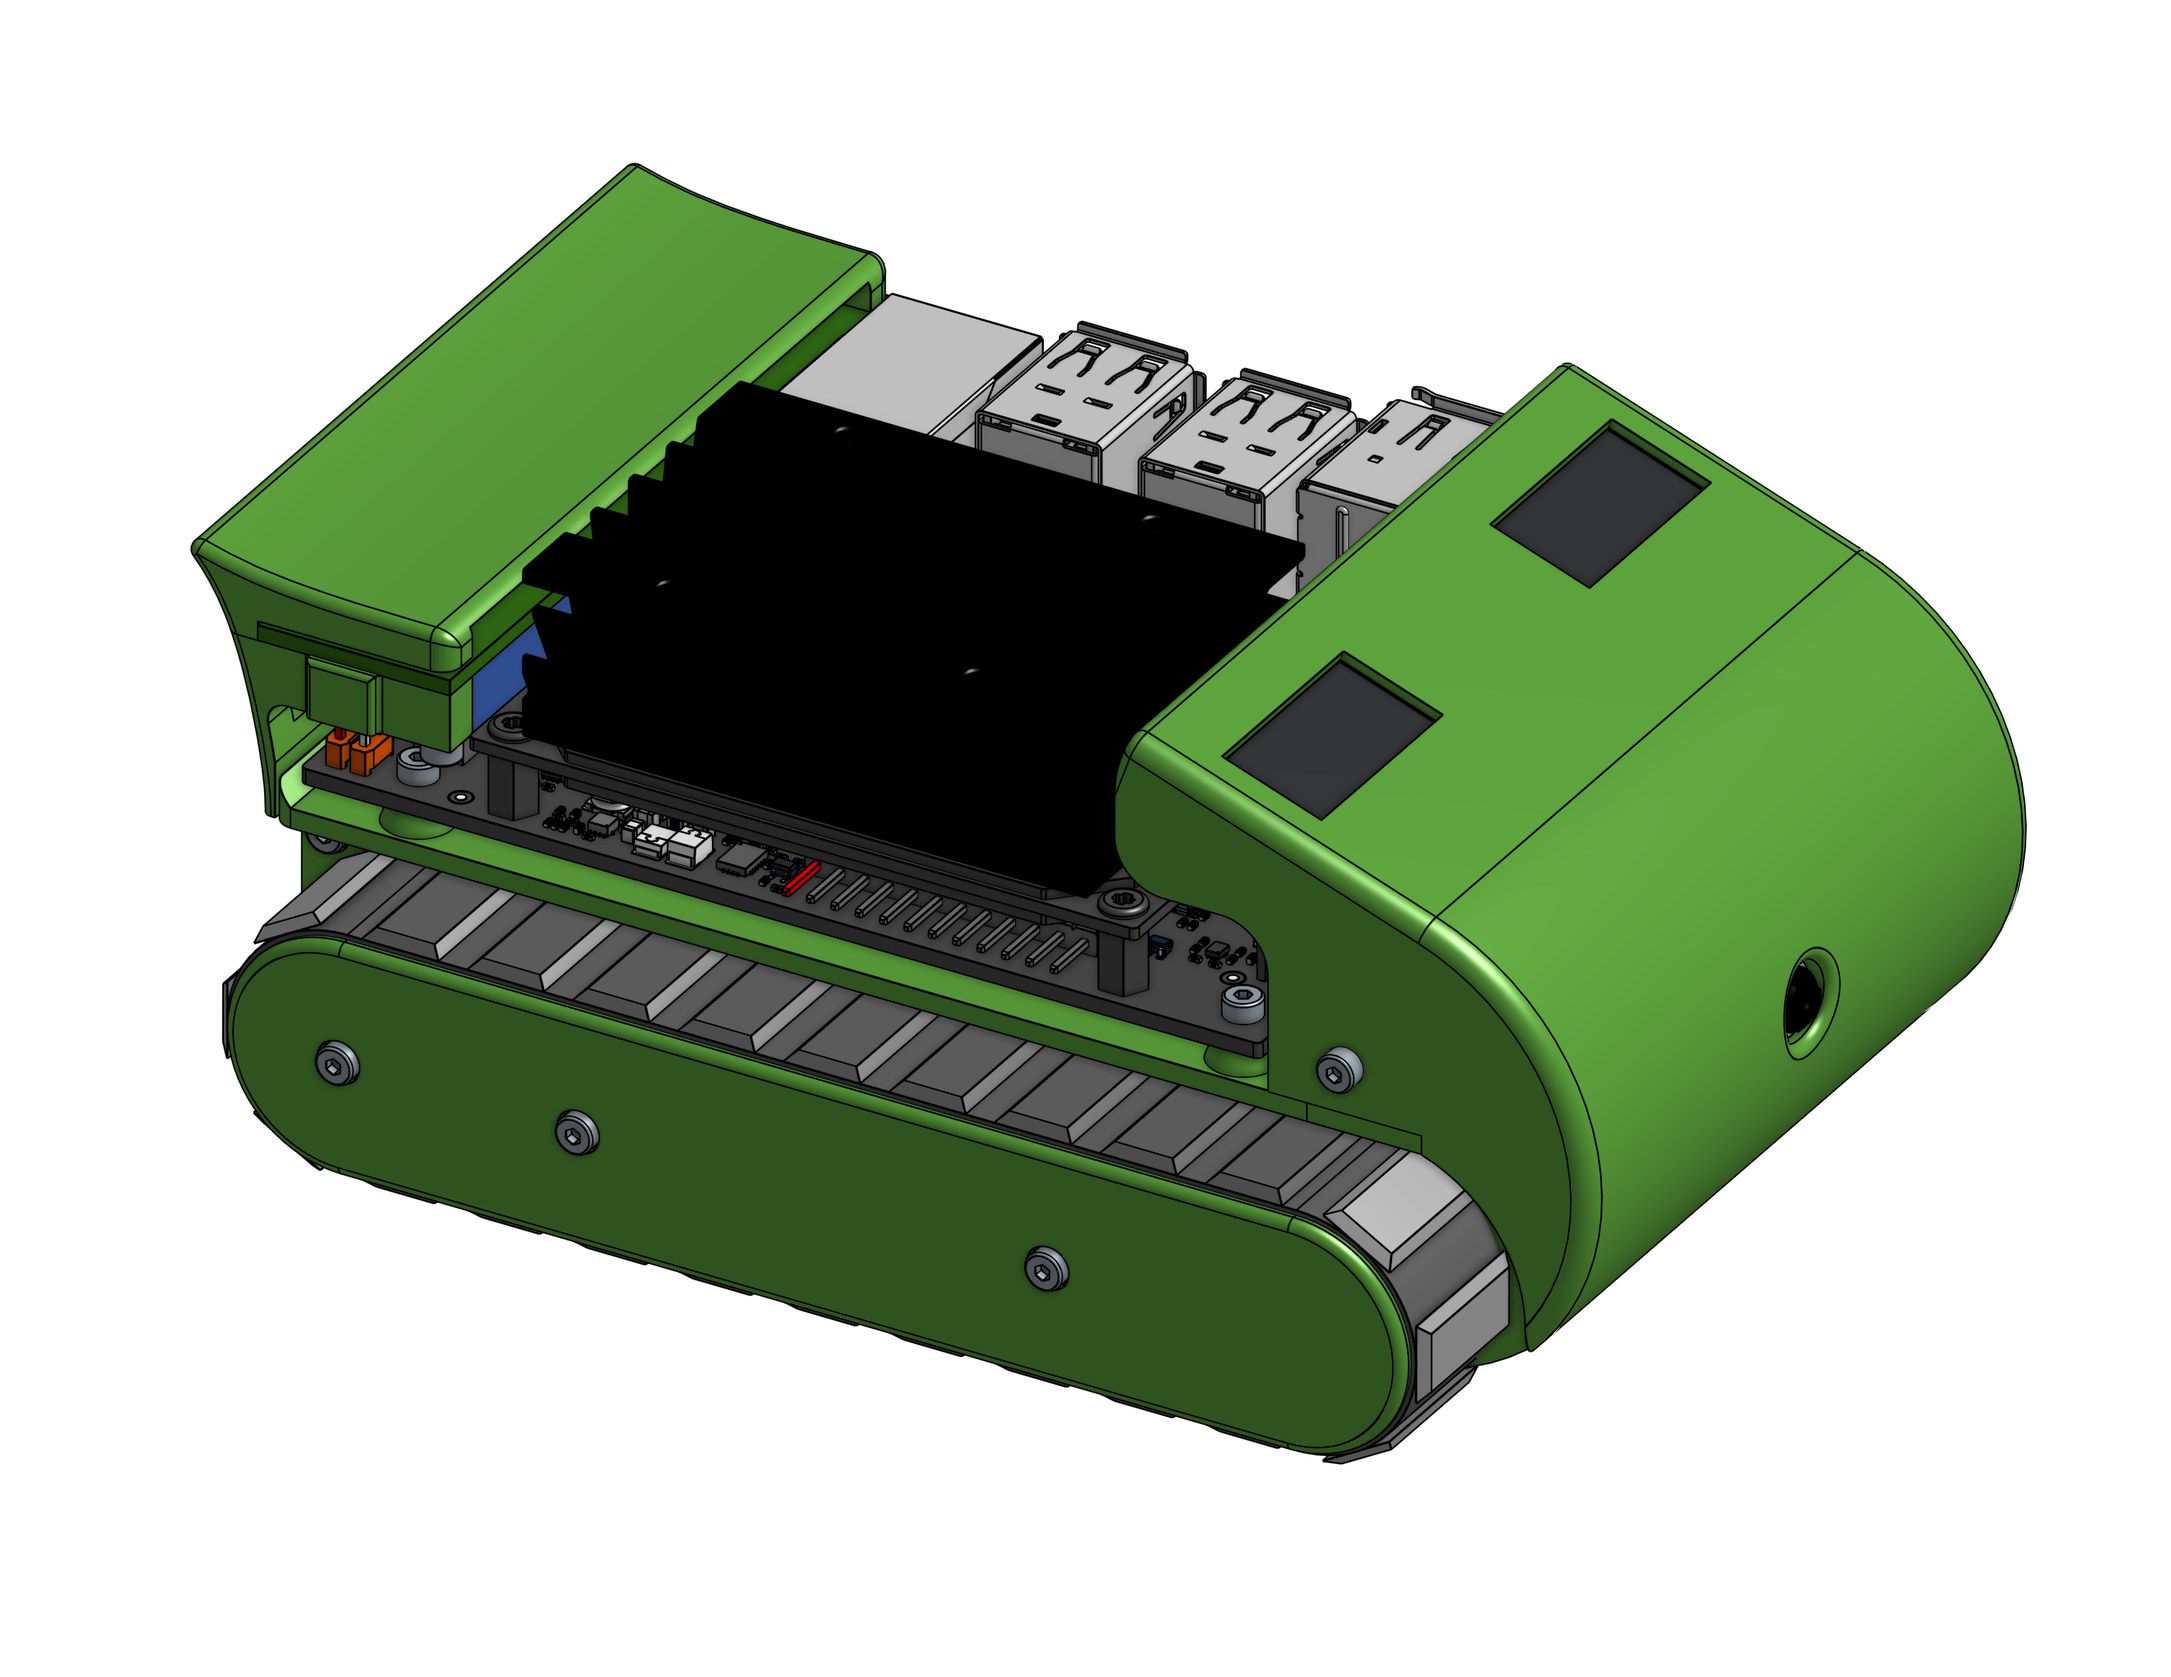
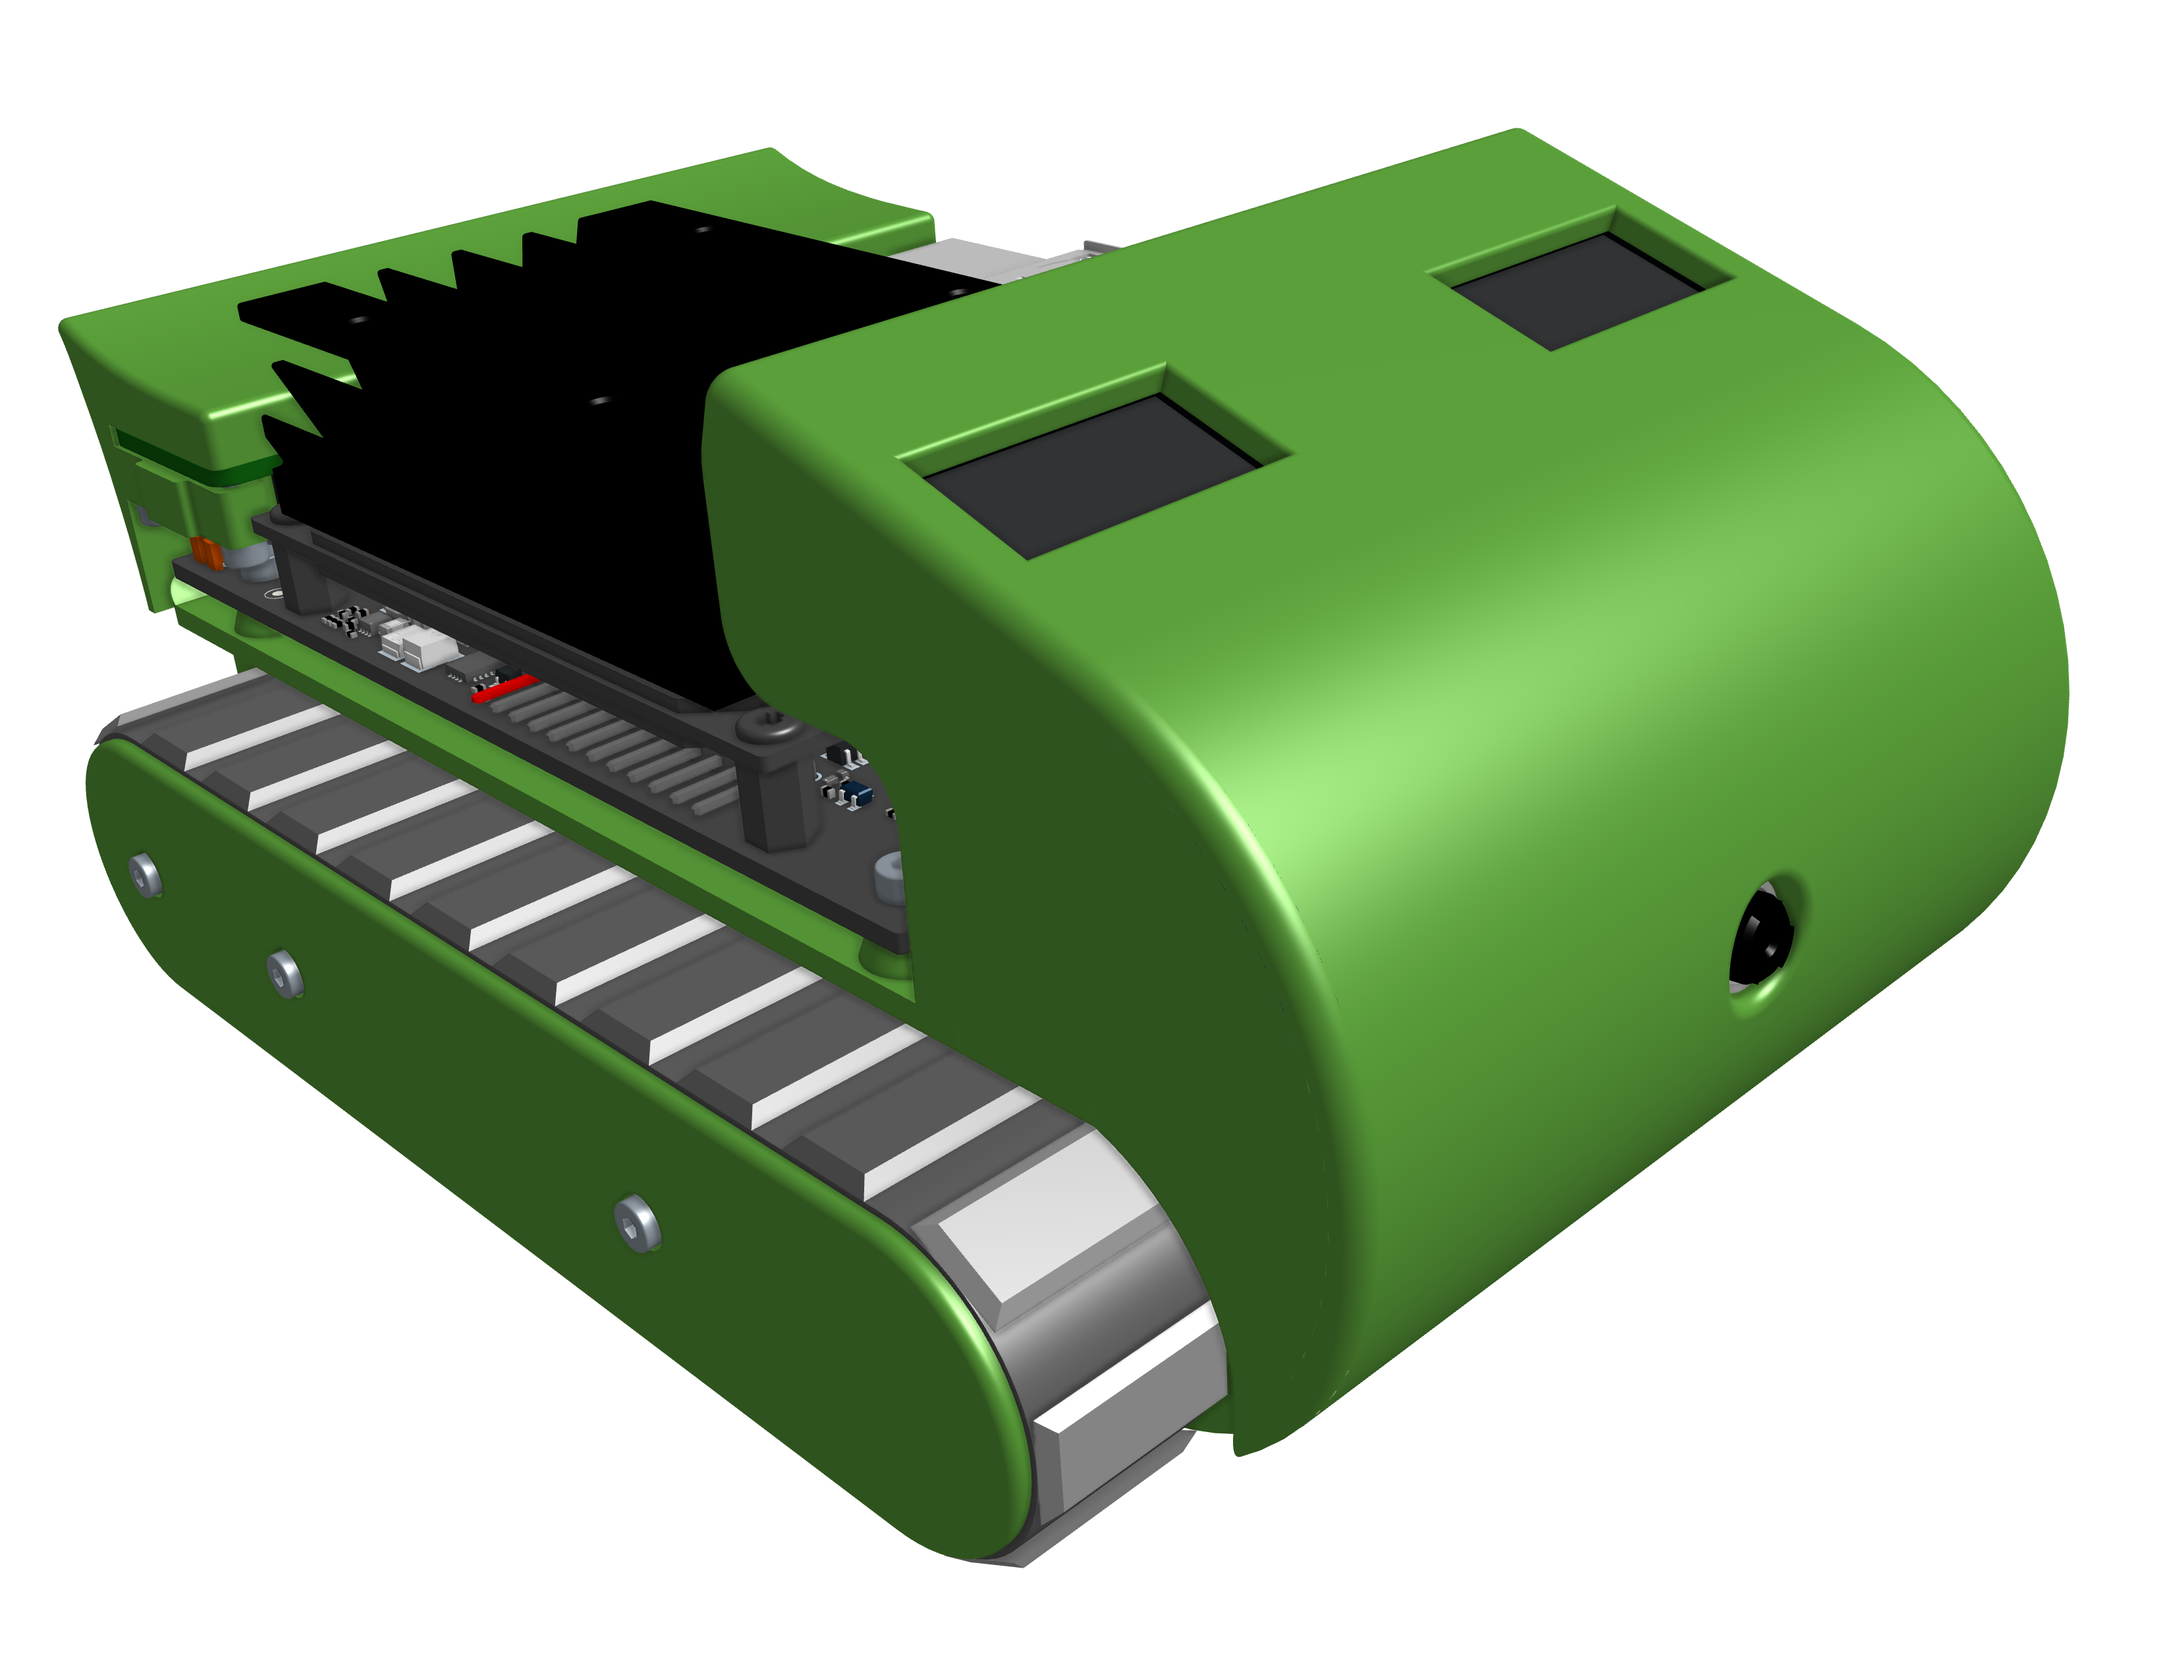
Update all assembly images

diff --git a/_docs/05-assembly.md b/_docs/05-assembly.md
@@ -5,6 +5,11 @@ toc: true
 toc_label: "Table of Contents"
 toc_icon: "cog"
 toc_sticky: true
+pbholder:
+  - url: /assets/docs/assembly/pbholder.png
+    image_path: /assets/docs/assembly/pbholder.png
+    alt: "Assembly magnets on Power bank holder"
+    title: "Assembly magnets on Power bank holder"
 flap:
   - url: /assets/docs/assembly/flap-01-parts.png
     image_path: /assets/docs/assembly/flap-01-parts.png
@@ -14,6 +19,24 @@ flap:
     image_path: /assets/docs/assembly/flap-02-assembly.png
     alt: "Assembly flap"
     title: "Assembly expansion board to flap"
+motors:
+  - url: /assets/docs/assembly/front-magnets.png
+    image_path: /assets/docs/assembly/front-magnets.png
+    alt: "Assembly magnets"
+    title: "Assembly magnets"
+  - url: /assets/docs/assembly/front-motors.png
+    image_path: /assets/docs/assembly/front-motors.png
+    alt: "Assembly motors front"
+    title: "Assembly motors front"
+base:
+  - url: /assets/docs/assembly/base-parts.png
+    image_path: /assets/docs/assembly/base-parts.png
+    alt: "Assembly front part"
+    title: "Assembly front part"
+  - url: /assets/docs/assembly/base-magnets.png
+    image_path: /assets/docs/assembly/base-magnets.png
+    alt: "Assembly magnets base"
+    title: "Assembly magnets base"
 wheels:
   - url: /assets/docs/assembly/sprocket-A-wheel.png
     image_path: /assets/docs/assembly/sprocket-A-wheel.png
@@ -30,37 +53,38 @@ tracks:
     title: "Assembly track left"
   - url: /assets/docs/assembly/tracks-02-right.png
     image_path: /assets/docs/assembly/tracks-02-right.png
-    alt: "Assembly track right"
-    title: "Assembly track right"
-  - url: /assets/docs/assembly/tracks-03-nuts.png
-    image_path: /assets/docs/assembly/tracks-03-nuts.png
-    alt: "Assembly track nuts"
-    title: "Assembly track nuts"
+    alt: "Assembly track right - bolts"
+    title: "Assembly track right - bolts"
+wiring:
+  - url: /assets/docs/assembly/body.png
+    image_path: /assets/docs/assembly/body.png
+    alt: "Assembly board and wiring"
+    title: "Assembly board and wiring"
 cover:
-  - url: /assets/docs/assembly/cover-01-display.png
-    image_path: /assets/docs/assembly/cover-01-display.png
+  - url: /assets/docs/assembly/cover-01-magnets.png
+    image_path: /assets/docs/assembly/cover-01-magnets.png
+    alt: "Cover assembly magnets"
+    title: "Cover Assembly magnets"
+  - url: /assets/docs/assembly/cover-02-display.png
+    image_path: /assets/docs/assembly/cover-02-display.png
     alt: "Cover assembly display"
-    title: "Assembly display"
-  - url: /assets/docs/assembly/cover-02-cam.png
-    image_path: /assets/docs/assembly/cover-02-cam.png
+    title: "Cover Assembly display"
+  - url: /assets/docs/assembly/cover-03-cam.png
+    image_path: /assets/docs/assembly/cover-03-cam.png
     alt: "Cover assembly camera"
     title: "Assembly camera"
 body-head:
-  - url: /assets/docs/assembly/body-head-A.png
-    image_path: /assets/docs/assembly/body-head-A.png
+  - url: /assets/docs/assembly/body-head.png
+    image_path: /assets/docs/assembly/body-head.png
     alt: "Assembly NanoSaur head rear view"
     title: "Assembly NanoSaur head rear view"
-  - url: /assets/docs/assembly/body-head-B.png
-    image_path: /assets/docs/assembly/body-head-B.png
-    alt: "Assembly NanoSaur head front view"
-    title: "Assembly NanoSaur head front view"
 power-bank:
-  - url: /assets/docs/assembly/NanoSaur-power-bank.png
-    image_path: /assets/docs/assembly/NanoSaur-power-bank.png
+  - url: /assets/docs/assembly/NanoSaur-01-powerbank.png
+    image_path: /assets/docs/assembly/NanoSaur-01-powerbank.png
     alt: "Assembly NanoSaur power bank"
     title: "Assembly NanoSaur power bank"
-  - url: /assets/docs/assembly/NanoSaur.png
-    image_path: /assets/docs/assembly/NanoSaur.png
+  - url: /assets/docs/assembly/NanoSaur-02-pbholder.png
+    image_path: /assets/docs/assembly/NanoSaur-02-pbholder.png
     alt: "NanoSaur done!"
     title: "NanoSaur done!"
 ---
@@ -71,7 +95,8 @@ If you are here, you are ready to mount NanoSaur!
 
 There are few steps to follow to mount NanoSaur only using the tools in list, remember to collect and buy all components listed in the [Bill of Materials](/bill-of-materials)
 
-We can split the NanoSaur assembly in three parts:
+We can split the NanoSaur assembly into four parts:
+* [Power Bank holder](#power-bank-holder)
 * [Flap](#flap)
 * [Body](#body)
 * [Head](#head)
@@ -82,6 +107,15 @@ You need only:
 | Tool               | Picture |
 |--------------------|---------|
 | Hex M2 arm wrench  | ![arm M2 wrench](/assets/docs/assembly/arm_wrench.jpg) |
+
+# Power Bank holder
+
+| Quantity | Part                |
+|:--------:|---------------------|
+| 1        | pb_holder.stl       |
+| 2        | magnet 4x2mm        |
+
+{% include gallery id="pbholder" caption="Assembly NanoSaur power bank holder" %}
 
 # Flap
 
@@ -103,7 +137,7 @@ You need only:
 | 1        | base_front.stl       |
 | 2        | Pololu Micro Gearbox |
 
-{% include figure image_path="/assets/docs/assembly/front.png" alt="NanoSaur motor block" caption="Assembly motors" %}
+{% include gallery id="motors" caption="Assembly front part" %}
 
 ## Front and rear
 
@@ -113,7 +147,7 @@ You need only:
 | 1        | base_rear.stl       |
 | 4        | Hex M2 6mm          |
 
-{% include figure image_path="/assets/docs/assembly/base.png" alt="NanoSaur assembly base" caption="Assembly base" %}
+{% include gallery id="base" caption="Assembly base" %}
 
 ## Wheels and Sprocket
 
@@ -149,7 +183,7 @@ Repeat this step twice
 | 1        | Adafruit motor control  |
 | 8        | Hex M2 4mm          |
 
-{% include figure image_path="/assets/docs/assembly/body.png" alt="NanoSaur assembly and wiring boards" caption="assembly and wiring boards" %}
+{% include gallery id="wiring" caption="assembly and wiring boards" %}
 
 # Head
 
